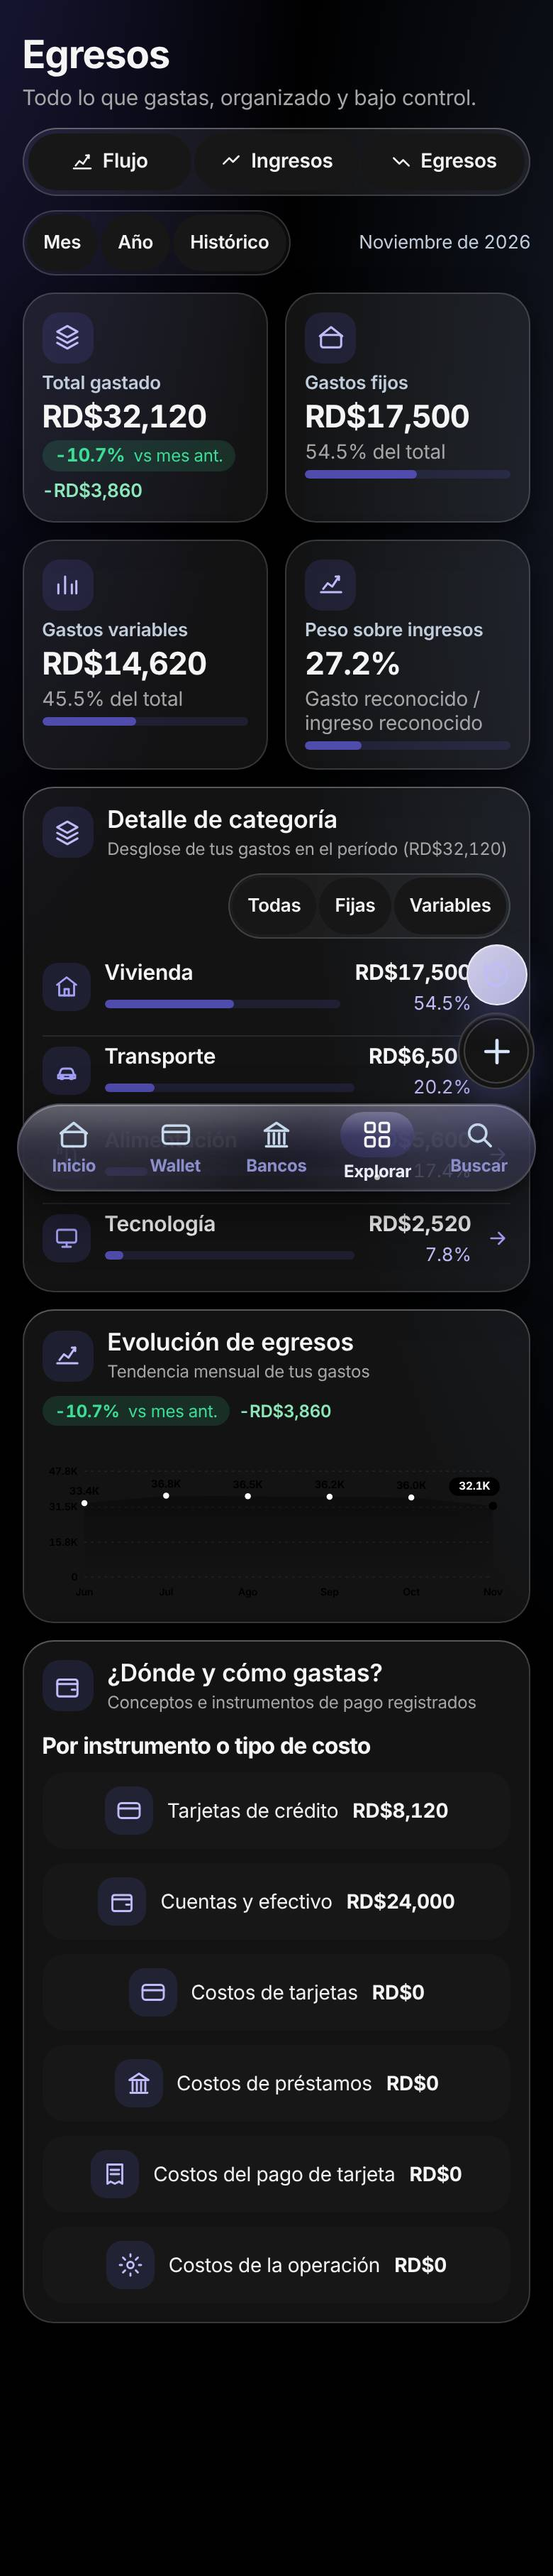
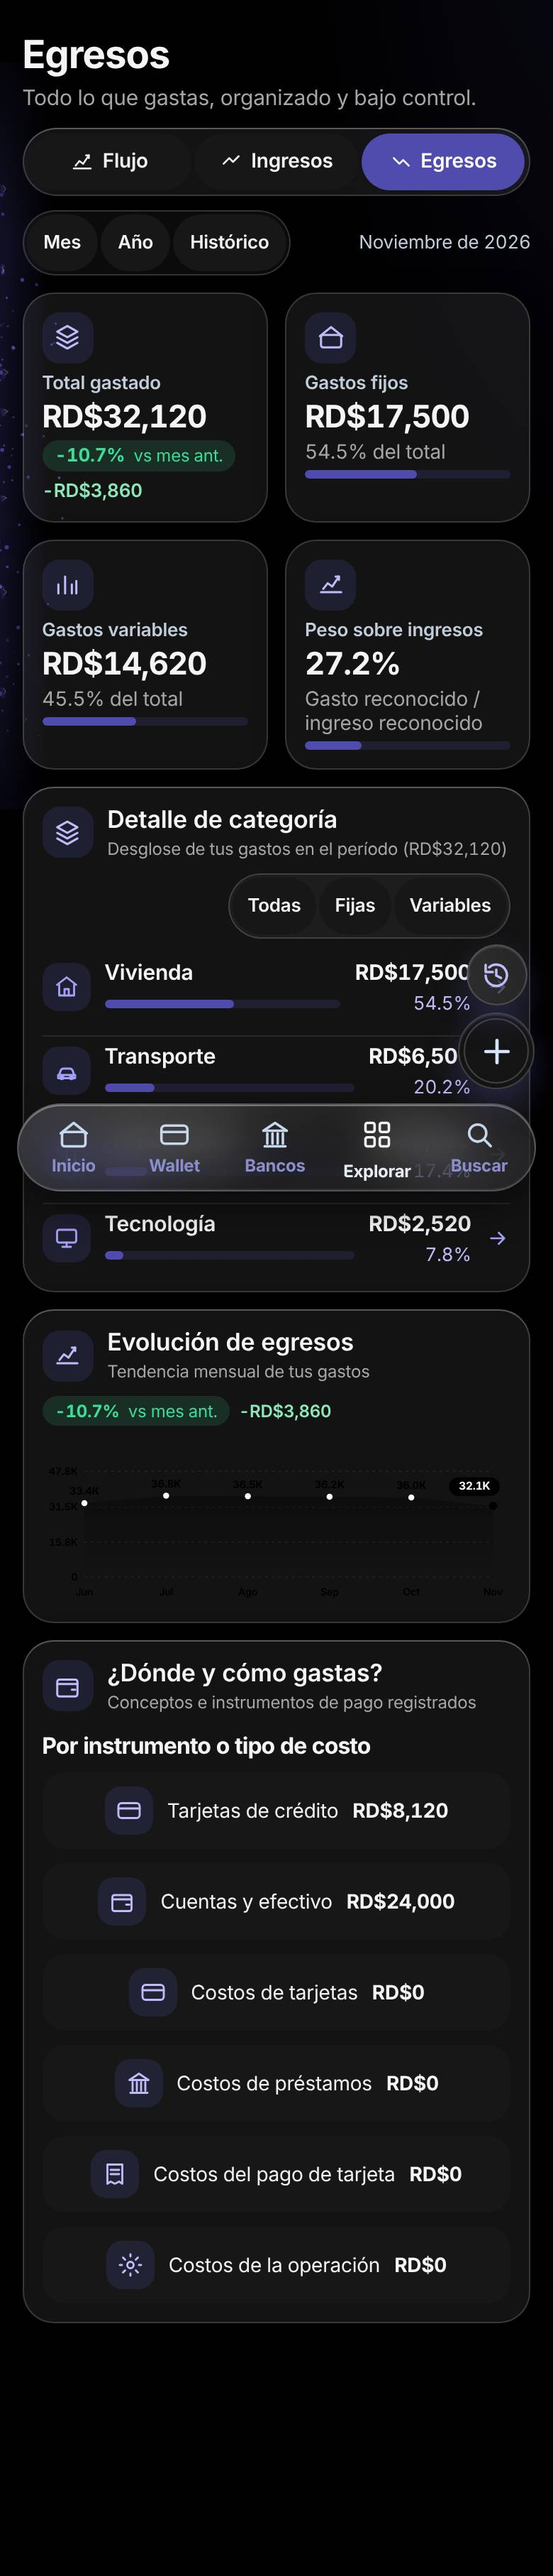
Flujo móvil: pestaña activa usa el acento real (sin degradado violeta fijo)
Claude-Session: https://claude.ai/code/session_01AwzF8JXGCqasa7rHAy2PHn

diff --git a/index.html b/index.html
@@ -46,7 +46,7 @@
 <link rel="stylesheet" href="./src/expenses-pc-glass.css?v=2012" media="(min-width: 791px)"/>
 <link rel="stylesheet" href="./src/explore-mobile-glass.css?v=74" media="(max-width: 790px)"/>
 <link rel="stylesheet" href="./src/movimientos-legibility.css?v=1013" media="(min-width: 791px)"/>
-<link rel="stylesheet" href="./src/flujo-movil.css?v=5" media="(max-width: 790px)"/>
+<link rel="stylesheet" href="./src/flujo-movil.css?v=2" media="(max-width: 790px)"/>
 <link rel="stylesheet" href="./src/vx-material.css?v=201"/>
 <script src="./src/vive-score/flag.js?v=1"></script>
 <link rel="stylesheet" href="./src/momentos/momentos.css?v=7"/>

diff --git a/src/flujo-movil.css b/src/flujo-movil.css
@@ -197,3 +197,5 @@
  .vinc .vinc-crow>span{overflow-wrap:anywhere}
  .vinc .vinc-crows{width:100%}
 }
+/* Pestaña activa de Flujo: color de acento real (sin degradado violeta heredado) */
+@media (max-width:790px){html body #app#app#app#app #page#page .vexp .vflow-tabs button.is-on{background:var(--vx-accent-strong)!important;background-image:none!important;color:var(--vx-on-accent,#fff)!important}}
